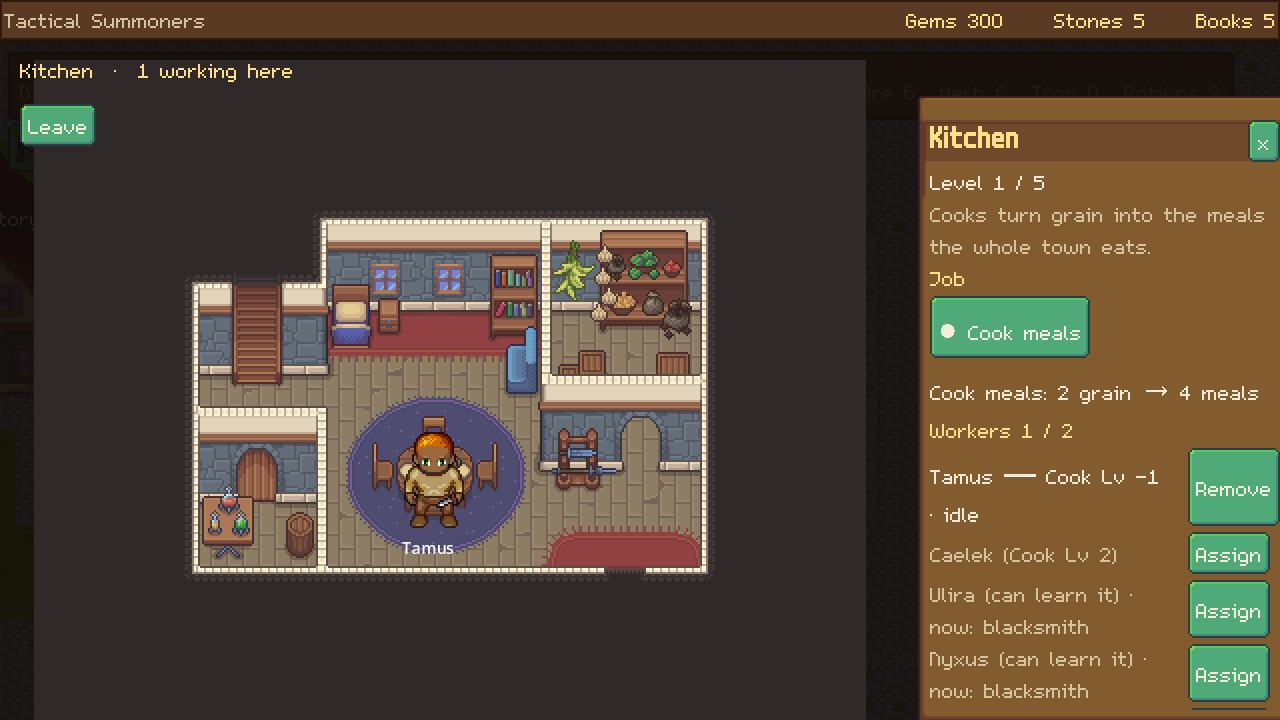
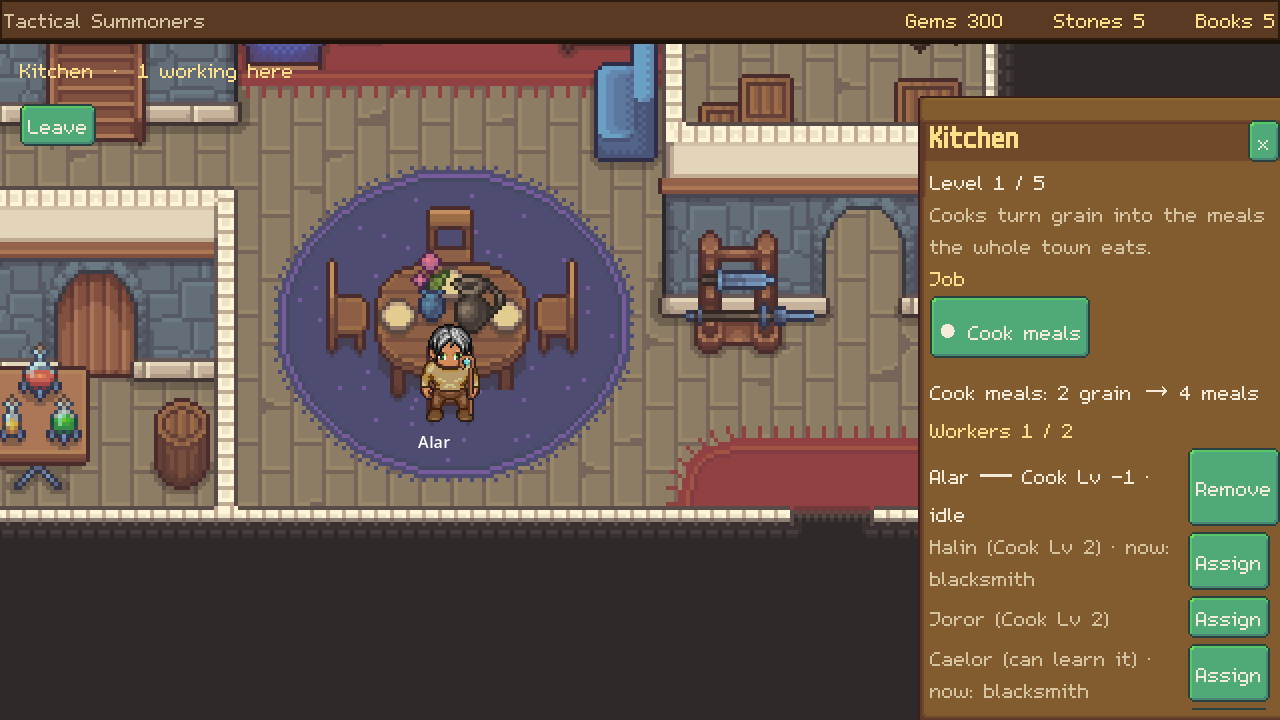
Town on the owner's forest tileset with pack buildings; interiors x2 against heroes (D-072 revision), centred on workers with drag pan; handoff with next steps

diff --git a/docs/reports/overhaul/HANDOFF.md b/docs/reports/overhaul/HANDOFF.md
@@ -1,6 +1,6 @@
 # Handoff del overhaul LPC
 
-**Fase actual: 5 terminada.** Barón ×2 + aura (dueño: "a+b"), 80/20 confirmado, decisiones de ítems en D-077. Siguiente: fase 6 (licencias e íconos de los packs, fondos, efectos, UI B).
+**Fase actual: 6 hecha (UI B, packs, interiores); 7 a medias.** Ver "Siguiente" al final.
 
 Hecho:
 - Fase 0: `.gdignore` y `.gitignore` para `assets/nuevos assets/` (sacados del índice), prompt viejo marcado SUSTITUIDO, inventario `USO_ASSETS_ANTES.md`, fixture de 200 semillas (`tests/test_hero_fixture.gd`), línea base `BASELINE.md` (25 suites en verde).
@@ -26,3 +26,14 @@ Pendiente: armas con frames sobredimensionados (el bastón de cristal y el mando
 
 Fase 5 (hecha): `tools/lpc_catalog.py` → `assets/pixel/lpc/wardrobe_catalog.json` (408 piezas con slot, material, variantes, animaciones, licencia, autores) y hojas `docs/reports/overhaul/vestuario/<slot>.png`; `tools/lpc_races_sheet.py` → `razas.png` (23 cabezas); `scripts/data/lpc_races.gd` (10 arquetipos, sin stats ni pisos); `scripts/data/item_visuals.gd` (base → pieza LPC, color de metal por nivel de ítem: cobre, hierro, acero, plata, oro); el equipo se ve en el héroe (`SpriteComposer` pasa `ItemVisuals.equipment_layers`). Test en `smoke_lpc`.
 Pendiente: escudos, anillos, amuletos y trinkets solo con ícono; armas sobredimensionadas.
+
+Fase 6 (hecha): `tools/import_packs.py` (50+ packs, licencias en `ASSET_REGISTRY.json`), tema UI B (madera, pergamino, botones verdes; `UIKit.piece`), paleta de UI en madera.
+Edificios entrables (pedido del dueño): `tools/bake_tmx.py` hornea los mapas Tiled de los packs (taller con forja, capilla, guild hall 2 pisos, casa, templo, mazmorra) a `assets/pixel/interiors/`, más edificios sueltos `bld_*` para el pueblo. `BuildingInterior` (click en un edificio construido): la sala a ×2 frente a los héroes, los héroes asignados en sus puestos, arrastrar para mirar; sin trabajadores el panel avisa y no se produce nada. `InteriorDefs` mapea edificio → interior y exterior.
+Pueblo (fase 7, parcial): suelo con el tileset de bosque del dueño (caminos de tierra orgánicos, clusters, anillo de árboles); edificios de los packs a ×1.
+
+## Siguiente (en orden)
+1. **Escala del mundo ×2 frente a los personajes (revisión de D-072):** pueblo, pisos y Wilds. Pasar de imagen horneada a `TileMapLayer` (tiles de 16 px en un nodo a escala 2) y doblar las celdas lógicas o el tamaño del mapa; ajustar en datos radios, alcances, velocidades y percepción para que el balance en celdas no cambie (test de distancias). Los edificios `bld_*` a ×2 → parcelas del pueblo más grandes (`TownTables` plot ×2) y mapa del pueblo más grande.
+2. **Profesiones estilo WoW** (pedido del dueño): ventana de recetas por edificio/profesión: lista por categorías a la izquierda con color de dificultad (naranja/amarillo/verde/gris según nivel del artesano), detalle a la derecha con materiales tengo/necesito, cantidad y botón Crear; requiere trabajador asignado.
+3. **Biblioteca de ítems (D-077):** tiers por material, slot trinket, rarezas con único, afijos buenos y malos, drops temáticos por enemigo vs línea del herrero, joyero, sets del herrero, únicos por misión secreta, consumibles, requisitos de nivel y clase, íconos emparejados (packs de íconos ya importados en `assets/pixel/packs/icons_*`, `willibab`, `rpg_icons`).
+4. Pisos y Wilds con mezcla de packs (árboles, rocas, arbustos, objetos de CraftPix junto al tileset del dueño).
+5. Fase 8 (pulido: luces, viento, copas translúcidas, partículas, viñeta, opciones de calidad) y fase 9 (borrar lo huérfano: aprobado por el dueño salvo los PNG de Caz; créditos; informe).

diff --git a/docs/DECISIONS.md b/docs/DECISIONS.md
@@ -335,6 +335,8 @@ Inmune mientras dura su escudo; 2 héroes canalizan 8 s en un altar del mismo ma
 ### D-072 — Overhaul LPC: escala del mundo (D-B, 2026-10-31, dueño: "Todo a ×1")
 Rejilla lógica de 32 px. Todo el arte se dibuja a ×1: personajes LPC (frame de 64 px), objetos de CraftPix y tiles de 16 px (2×2 por celda). Nunca escalado no entero ni ×2 de tiles: misma densidad de píxel en todo. Sustituye la referencia de escala de D-055 por el humano LPC. Pendientes del overhaul: estilo de UI (A Dragon Regalia / B CraftPix) y pesos humano/elfo (propuesta 80/20); D-A, D-C..D-G se registran al cerrar sus fases.
 
+**Revisión de D-072 (dueño, 2026-10-31: "los personajes se ven muy grandes en proporción al mapa"):** los packs de CraftPix están dibujados para personajes de ~16×32 px; los LPC miden ~48 px. El arte del **mundo** (suelo, edificios, interiores, props) va a **×2 respecto a los personajes** (escalado entero) y el mapa crece en proporción. Interiores ya a ×2; pueblo, pisos y Wilds: pendiente (TileMap en vez de imagen horneada).
+
 ### D-073 — Overhaul LPC: atuendo inicial único (D-C, 2026-10-31, aprobado en el prompt del overhaul)
 `LpcWardrobe.STARTER_OUTFIT`: camisa de manga larga `tan`, pantalón `brown`, zapatos básicos `leather` (sin cinturón: la pieza de LPC no trae animaciones). Arma visual por clase en `STARTER_WEAPON_BY_CLASS` (espada arming de acero, daga, bastón simple, arco normal), sin stats. Los héroes usan los cuerpos adultos `male` y `female` (la camisa no existe para `muscular`).
 
